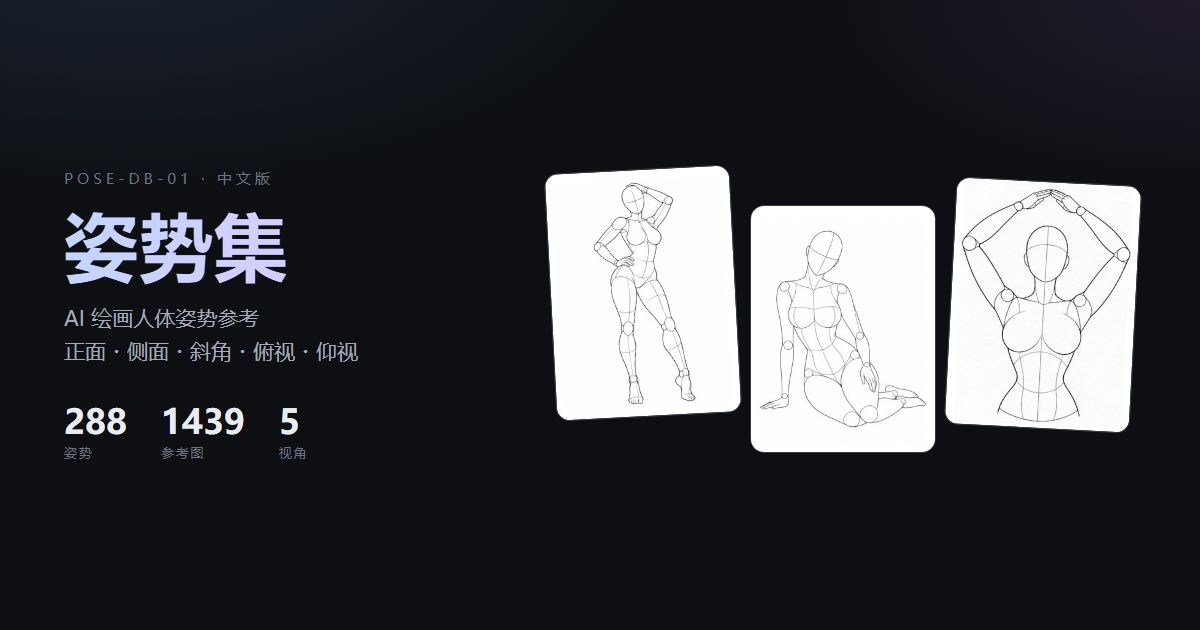
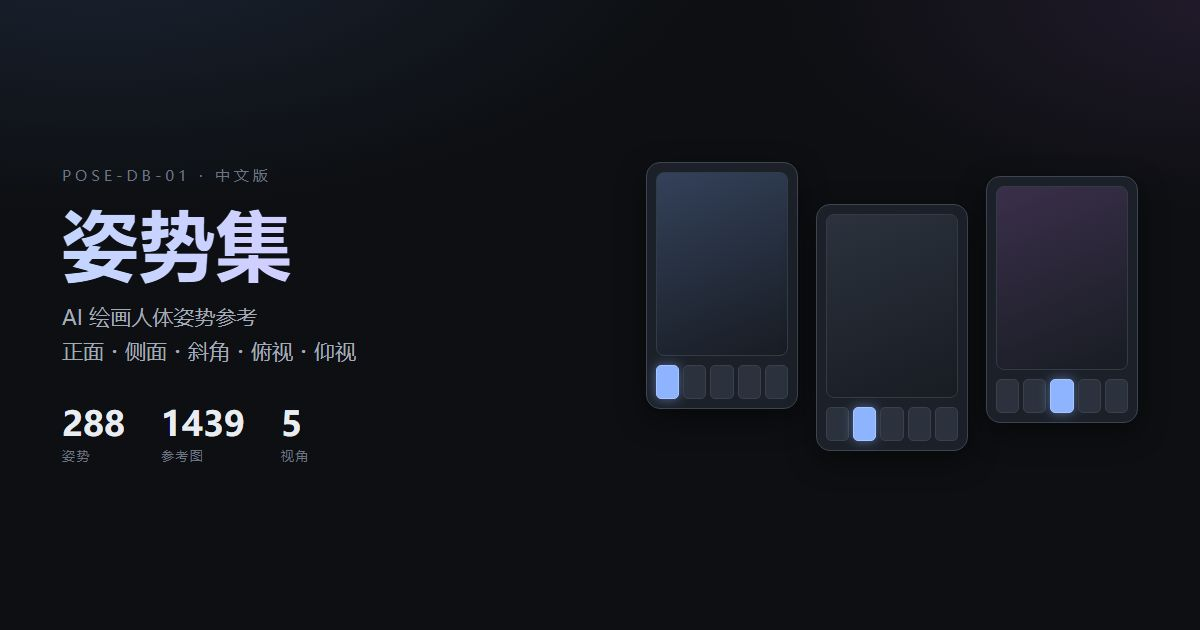
chore: 移除含缩略图的预览截图，封面改为纯排版设计
- 删除 docs/preview-1.jpg、docs/preview-2.jpg 与 README 的「页面预览」章节
- og-cover.jpg 重做为纯排版封面（深色底 + 文字 + 抽象色块），不含任何原作内容
- NOTICE 补充说明：仓库唯一的图片是自制封面，不含素材
- 至此仓库内无任何第三方素材图片，与「禁止再分发」条款不冲突

diff --git a/README.md b/README.md
@@ -35,13 +35,6 @@
 - 📊 **数据可复用**：中文记录、元数据、日⇄中对照表全部导出为 JSON / CSV
 - 🔎 **SEO 就绪**：robots.txt / sitemap.xml / 404.html / og-cover / JSON-LD 结构化数据
 
-## 📸 页面预览
-
-| 暗色 · 中文 | 浅色 · 日文 |
-|:---:|:---:|
-| ![暗色主题](docs/preview-1.jpg) | ![浅色主题](docs/preview-2.jpg) |
-
-社交分享封面：`og-cover.jpg`（1200×630）
 
 ## 📊 数据规模
 
@@ -93,7 +86,6 @@
 │   ├── pose-zh.json        # 中文数据（含中日对照字段）
 │   ├── meta.json           # 系列 / 分类 / 视角元数据
 │   └── translations.csv    # 日⇄中对照表（323 条）
-├── docs/                   # 预览截图
 ├── scripts/
 │   ├── extract.py          # 从原站存档解析内嵌数据
 │   ├── manifest.py         # 生成清单
@@ -267,11 +259,6 @@ open_file_cache max=10000 inactive=60s;
 - 🌐 **2 言語**：日本語 / 中文をその場で切り替え
 - 📦 **依存ゼロ**：単一 HTML、データ埋め込み、`file://` でそのまま開ける
 
-## 📸 画面プレビュー
-
-| ダーク · 中文 | ライト · 日本語 |
-|:---:|:---:|
-| ![ダーク](docs/preview-1.jpg) | ![ライト](docs/preview-2.jpg) |
 
 ## 📊 データ規模
 
@@ -326,11 +313,6 @@ Original author: ギア（[@giaaibusi](https://x.com/giaaibusi)）
 - 🌗 **Dual theme** and 🌐 **bilingual UI** with persisted preferences
 - 📦 **Zero dependencies**: one HTML file with embedded data — opens via `file://`, no server needed
 
-## 📸 Preview
-
-| Dark · Chinese | Light · Japanese |
-|:---:|:---:|
-| ![dark](docs/preview-1.jpg) | ![light](docs/preview-2.jpg) |
 
 ## 📊 Scale
 

diff --git a/NOTICE.md b/NOTICE.md
@@ -48,7 +48,10 @@
 | 拿图去做作品、商用创作、编辑、临摹参考 | ✅ 允许 |
 | 把图片文件本身再分发、转载、转售 | ❌ 禁止 |
 
-**本仓库不包含任何图片文件。** `.gitignore` 已排除 `thumbs/`、`img/`、`png/`。
+**本仓库不包含任何素材图片文件。** `.gitignore` 已排除 `thumbs/`、`img/`、`png/`。
+
+仓库中唯一的图片是 `og-cover.jpg`——本项目自制的**纯排版封面**（深色底 + 文字 + 抽象色块），
+不含任何原作内容，仅用于社交分享卡片。
 
 仓库中的 `scripts/download.py` 仅用于使用者从原始站点获取素材供**个人参考**，
 不构成对图片的再分发，也不改变上述条款。
